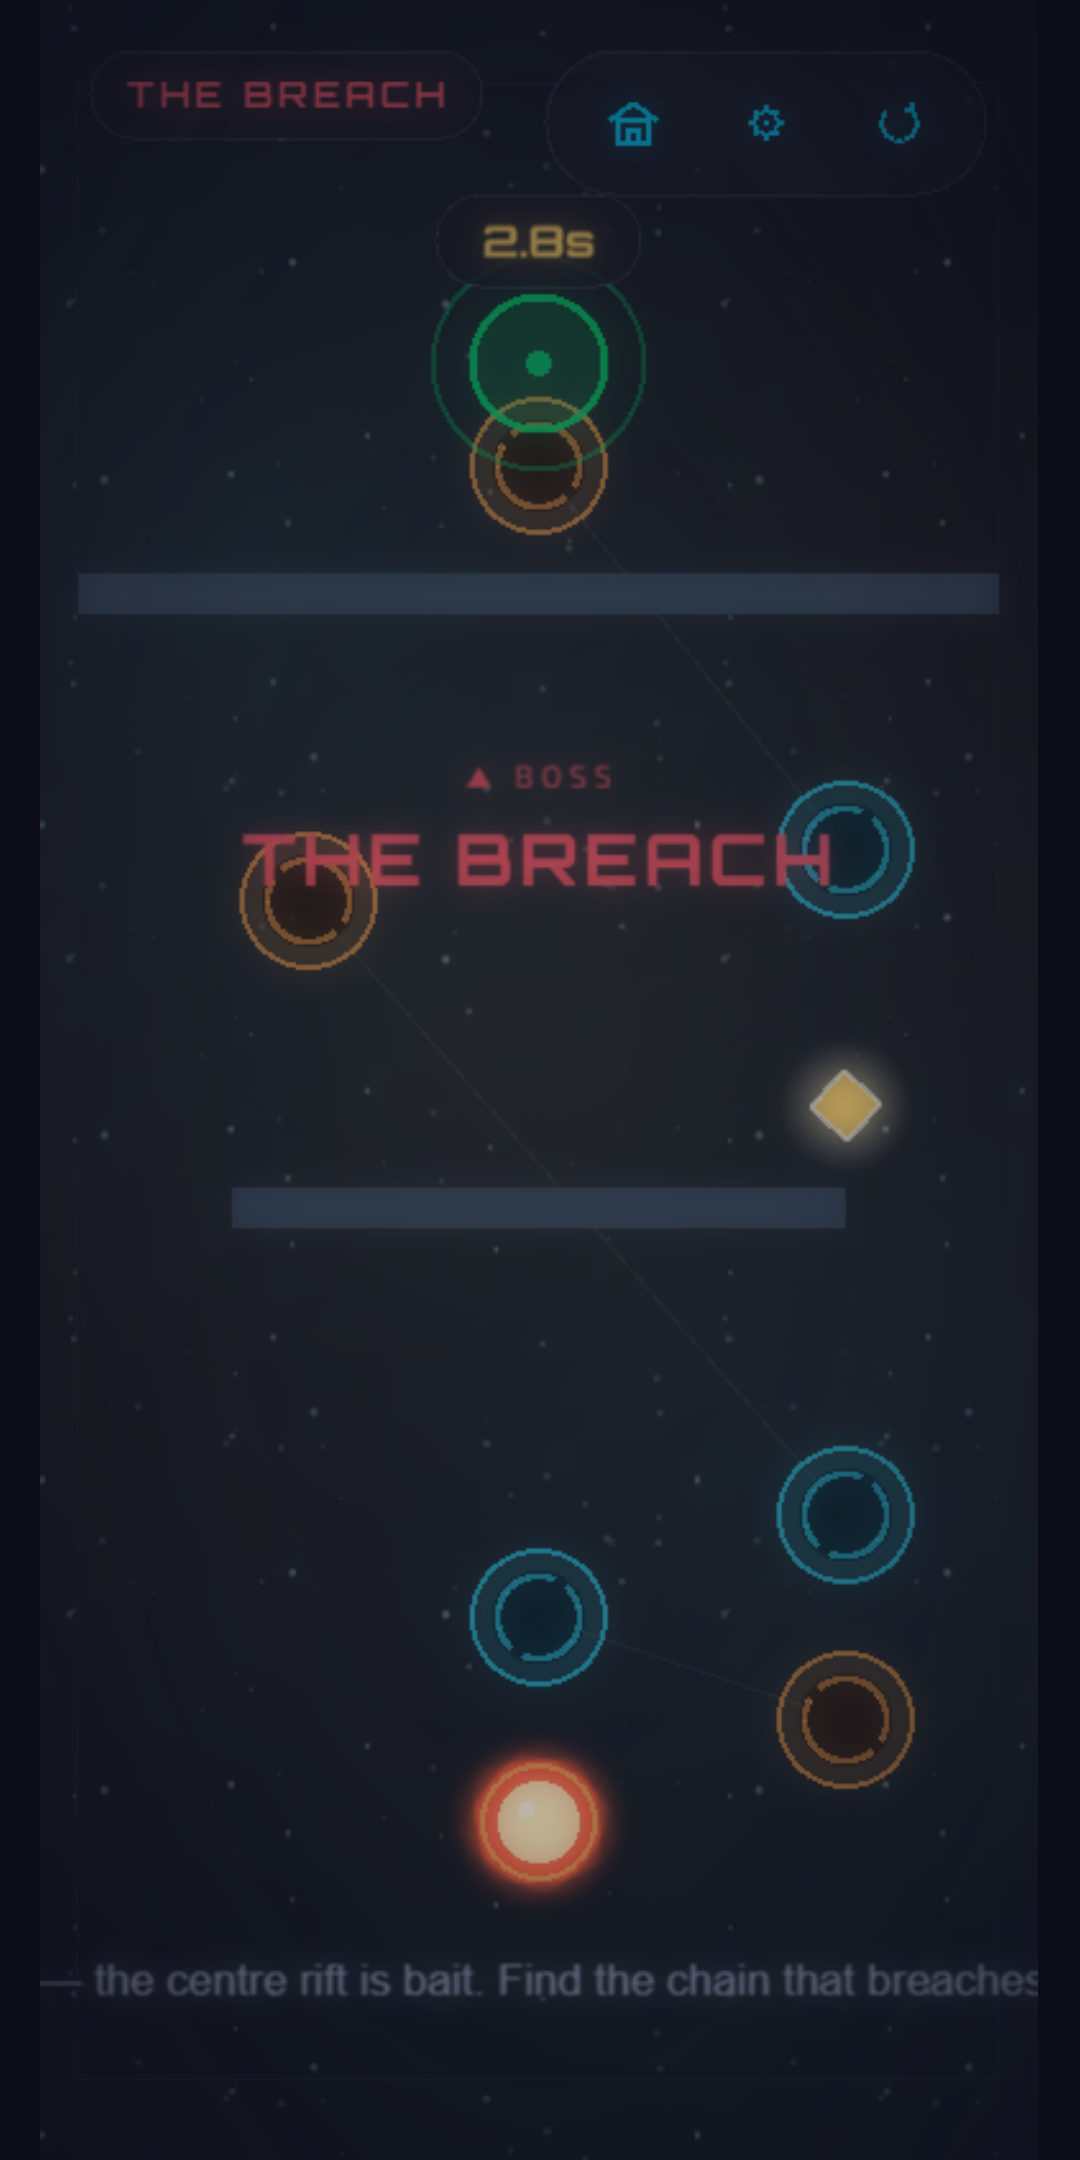
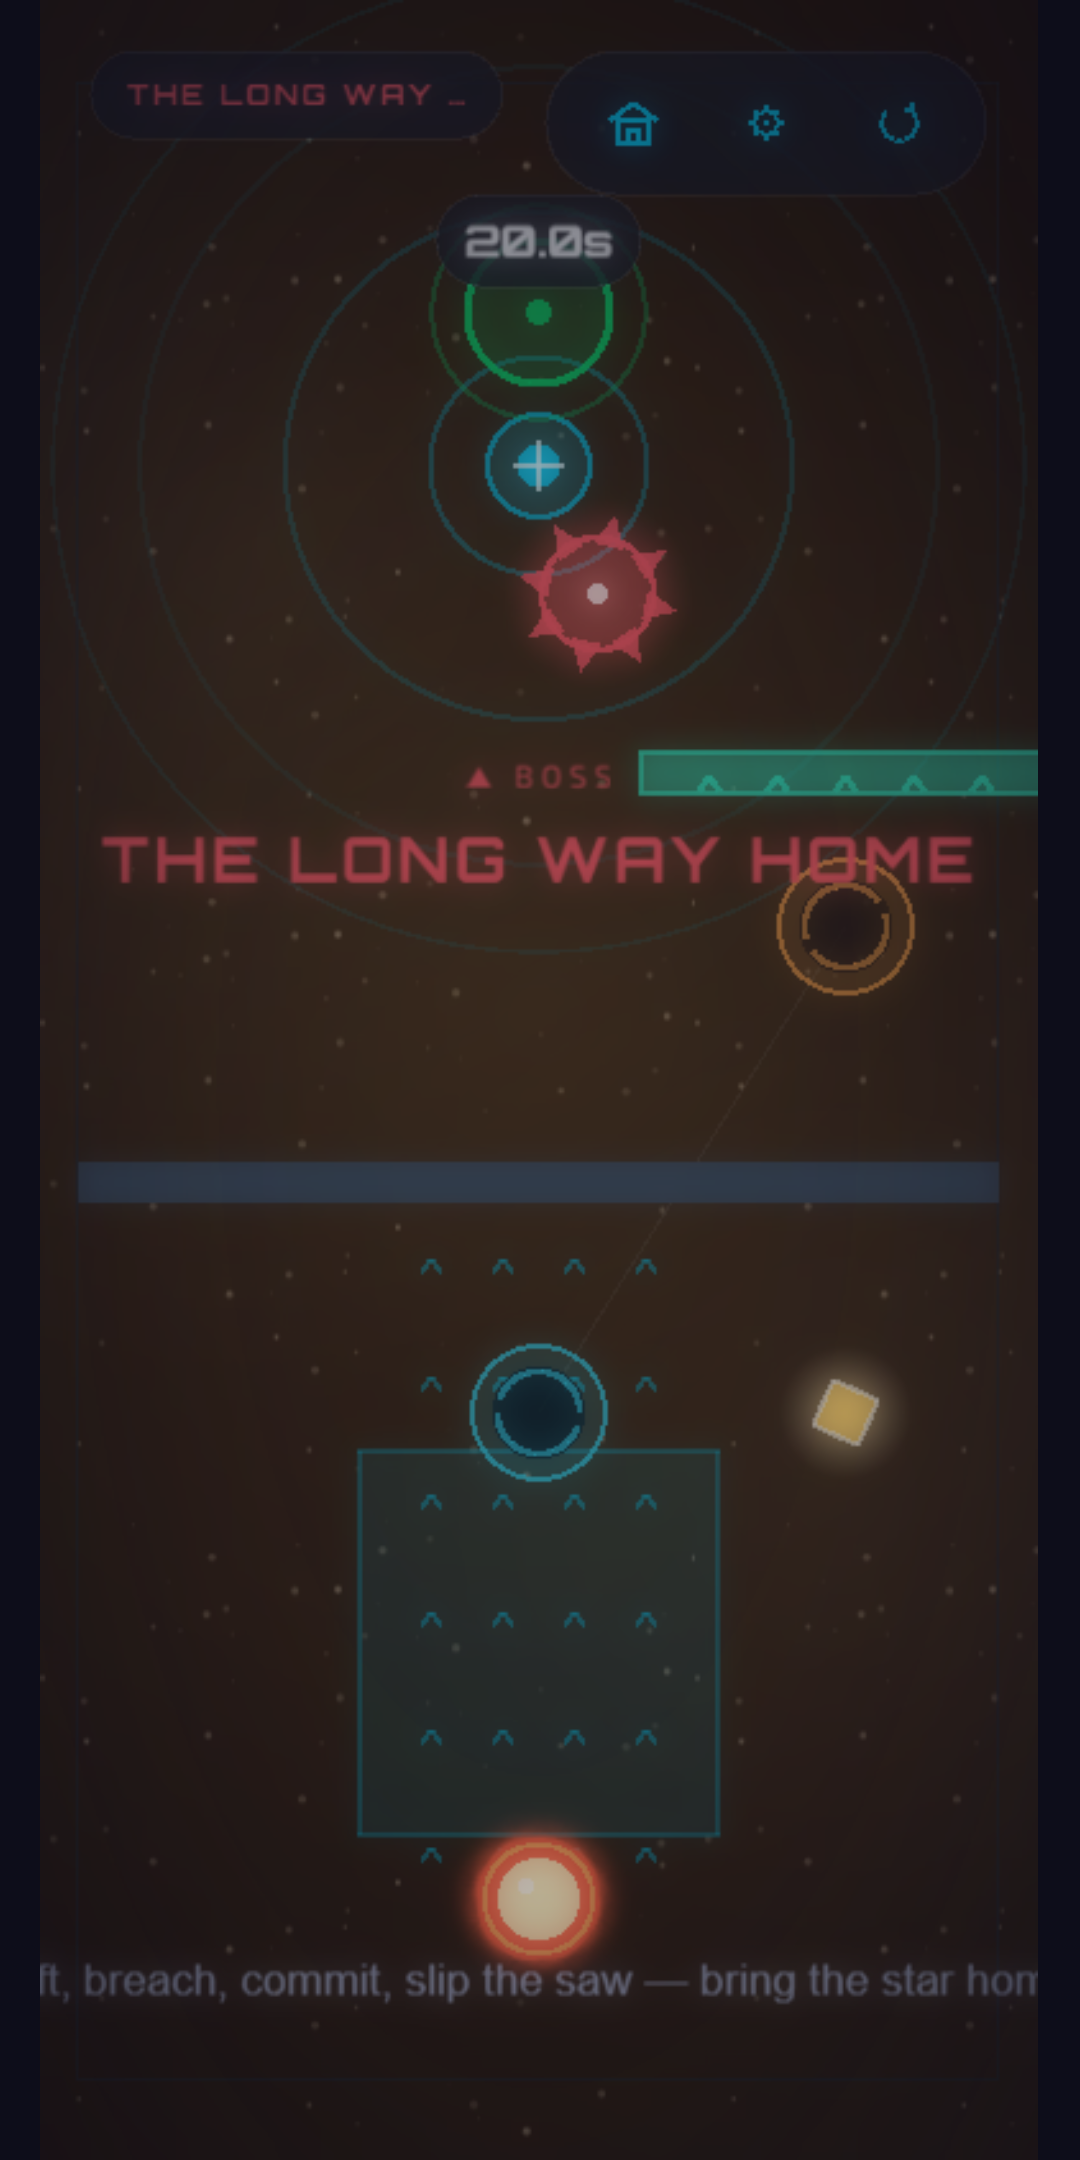
media(play): re-capture boss-finale shot with true finale THE LONG WAY HOME (L150) now that long-title HUD-fit fix landed; refresh curate mapping + README E

diff --git a/docs/media/README.md b/docs/media/README.md
@@ -6,6 +6,9 @@ captured automatically from the live build, then curated.
 
 - **Captured:** 2026-07-02 from `v1.0.0-rc.1` (150 levels / 15 worlds) — Wave 4 Task 2 refresh
   (2 new/refreshed hero GIFs + a re-curated Google Play set; see §B/§C below).
+- **Boss shot re-captured:** 2026-07-02, after the long-title HUD-fit fix landed on `master` — the
+  Google Play `03-boss-finale.png` now shows the true campaign finale **"THE LONG WAY HOME" (L150)**
+  with its title fitting cleanly (no icon-toolbar collision). See §B row 3 / §E (resolved).
 - **Source of truth for state:** [`../project-status.md`](../project-status.md).
 - **Caption / ASO strategy reference:** [`../store/aso.md`](../store/aso.md) · [`../store/listing.md`](../store/listing.md).
 
@@ -60,7 +63,7 @@ Play console editor (top third, safe-area, one accent glow per shot — see `../
 |---|------|-------|---------|
 | 1 | `01-star-map.png` | The Cosmos world map | **Journey 150 levels across 15 worlds.** |
 | 2 | `02-gameplay-pull.png` | Hold-to-pull, portals + currents (Rifts) | **Hold to pull. Guide the star home.** |
-| 3 | `03-boss-finale.png` | Boss "THE BREACH" | **15 worlds. 15 bosses, all different.** |
+| 3 | `03-boss-finale.png` | Boss finale "THE LONG WAY HOME" (L150) | **15 worlds. 15 bosses, all different.** |
 | 4 | `04-three-star-win.png` | 3-star LEVEL COMPLETE + `×5 BLAZE` + milestone toast | **Master every level. Perfect every run.** |
 | 5 | `05-daily-rewards.png` | Main menu, gold DAILY REWARD chest + streak-protected | **Daily rewards. Never lose your streak.** |
 | 6 | `06-cosmetics-bundle.png` | Store, Bundles tab, honest BEST VALUE tag | **Cosmetic bundles — no pay-to-win, ever.** |
@@ -69,9 +72,11 @@ Play console editor (top third, safe-area, one accent glow per shot — see `../
 
 Dropped `achievements` from this set to hold the Play count at a strong 8 while making room for the
 Wave 2-3 retention/store shots (5-6 above) — achievements stays in the GitHub/portfolio galleries
-below for players/recruiters who want more depth. `03`/`gallery-02-boss`/portfolio `04` all switched
-from the old `boss-l050` ("THE SINGULARITY") source to `boss-l060` ("THE BREACH") — `l050`'s title
-chip clips the icon toolbar (see the known-issue note in §E); `l060` doesn't and reads just as strong.
+below for players/recruiters who want more depth. `03-boss-finale.png` now sources `boss-l150`
+("THE LONG WAY HOME", the true campaign finale) — re-captured once the long-title HUD-fit fix landed
+(§E), so the chip fits/ellipsises clear of the icons and the title card shrink-fits on-screen. (The
+GitHub `gallery-02-boss` and portfolio `04` still use the short-title `boss-l060` "THE BREACH" as a
+distinct, equally strong boss moment — untouched this pass.)
 
 ### App Store iPhone 6.7" — `store/ios/iphone-6.7/` (1290×2796, full-res)
 Mirrors the Play order (`01`…`08`, still the pre-refresh 8-shot layout — preview-quality only, not
@@ -147,17 +152,19 @@ Automation drives scenes via the dev hook but cannot reproduce finger input or t
 
 ---
 
-## E. Known issue — filed, NOT fixed this wave (game code frozen)
+## E. Resolved — long-title HUD clip fixed (2026-07-02)
 
-**Long boss/signature titles clip the top-right icon toolbar.** `GameScene.createHud()`'s title chip
-sizes itself to `label.width + 28` and sits at a fixed top-left position; the home/settings/restart
-icon row sits at an independent fixed top-right position. Neither accounts for the other, so a long
-title (`THE LONG WAY HOME` at L150, `THE SINGULARITY` at L50/L140, `THE MAELSTROM` at L20, `THE EYE
-OF THE STORM` at L120, …) overlaps the icons instead of staying clear of them like the comment at
-that call site claims. Confirmed by direct comparison: `THE COLLAPSE` (12 chars, L10) and `THE
-BREACH` (10 chars, L60/L80) don't clip; `THE SINGULARITY` (15 chars) and `THE LONG WAY HOME` (17
-chars) do. **No committed Play/store/portfolio asset ships a clipped-title frame this wave** — every
-boss slot either sources a short-title level instead (`03-boss-finale.png` etc. now use `boss-l060`)
-or crops the clipped strip off frames that specifically need the true L150 campaign finale
-(`hero-boss-finale.png`, the iOS/iPad `*-boss-finale.png`). A real fix (chip max-width + ellipsis, or
-reserving toolbar clearance) belongs in a future gameplay wave, not a media-only one.
+**Long boss/signature titles no longer clip the top-right icon toolbar.** Previously
+`GameScene.createHud()`'s title chip sized itself to `label.width + 28` at a fixed top-left position
+while the home/settings/restart icon row sat at an independent fixed top-right position, so a long
+title (`THE LONG WAY HOME` L150, `THE SINGULARITY` L50/L140, `THE EYE OF THE STORM` L120, …) ran under
+the icons. **Fixed** on `master` (branch `feat/fix-boss-title-overflow`, merged): the chip now
+shrink-fits then ellipsises to the space before the icon row, and the centre title card shrink-fits
+to the safe-area width — pure, tested helpers in `src/utils/textFit.ts`, tuned via `theme.config.ts`
+(no gameplay/physics touched). Verified by rendering the worst cases (`THE LONG WAY HOME` L150 and the
+20-char `THE EYE OF THE STORM` L120): chip truncates clear of the icons, title card stays on-screen.
+
+The Google Play `03-boss-finale.png` was re-captured against the fix and now ships the true campaign
+finale `boss-l150` ("THE LONG WAY HOME") with its title fitting cleanly. **Not re-captured this pass**
+(still legacy pre-fix frames, crop-fixed as before — regenerate on a real device before an iOS
+submission): the iOS/iPad `*-boss-finale.png` previews and the portfolio `hero-boss-finale.png`.
